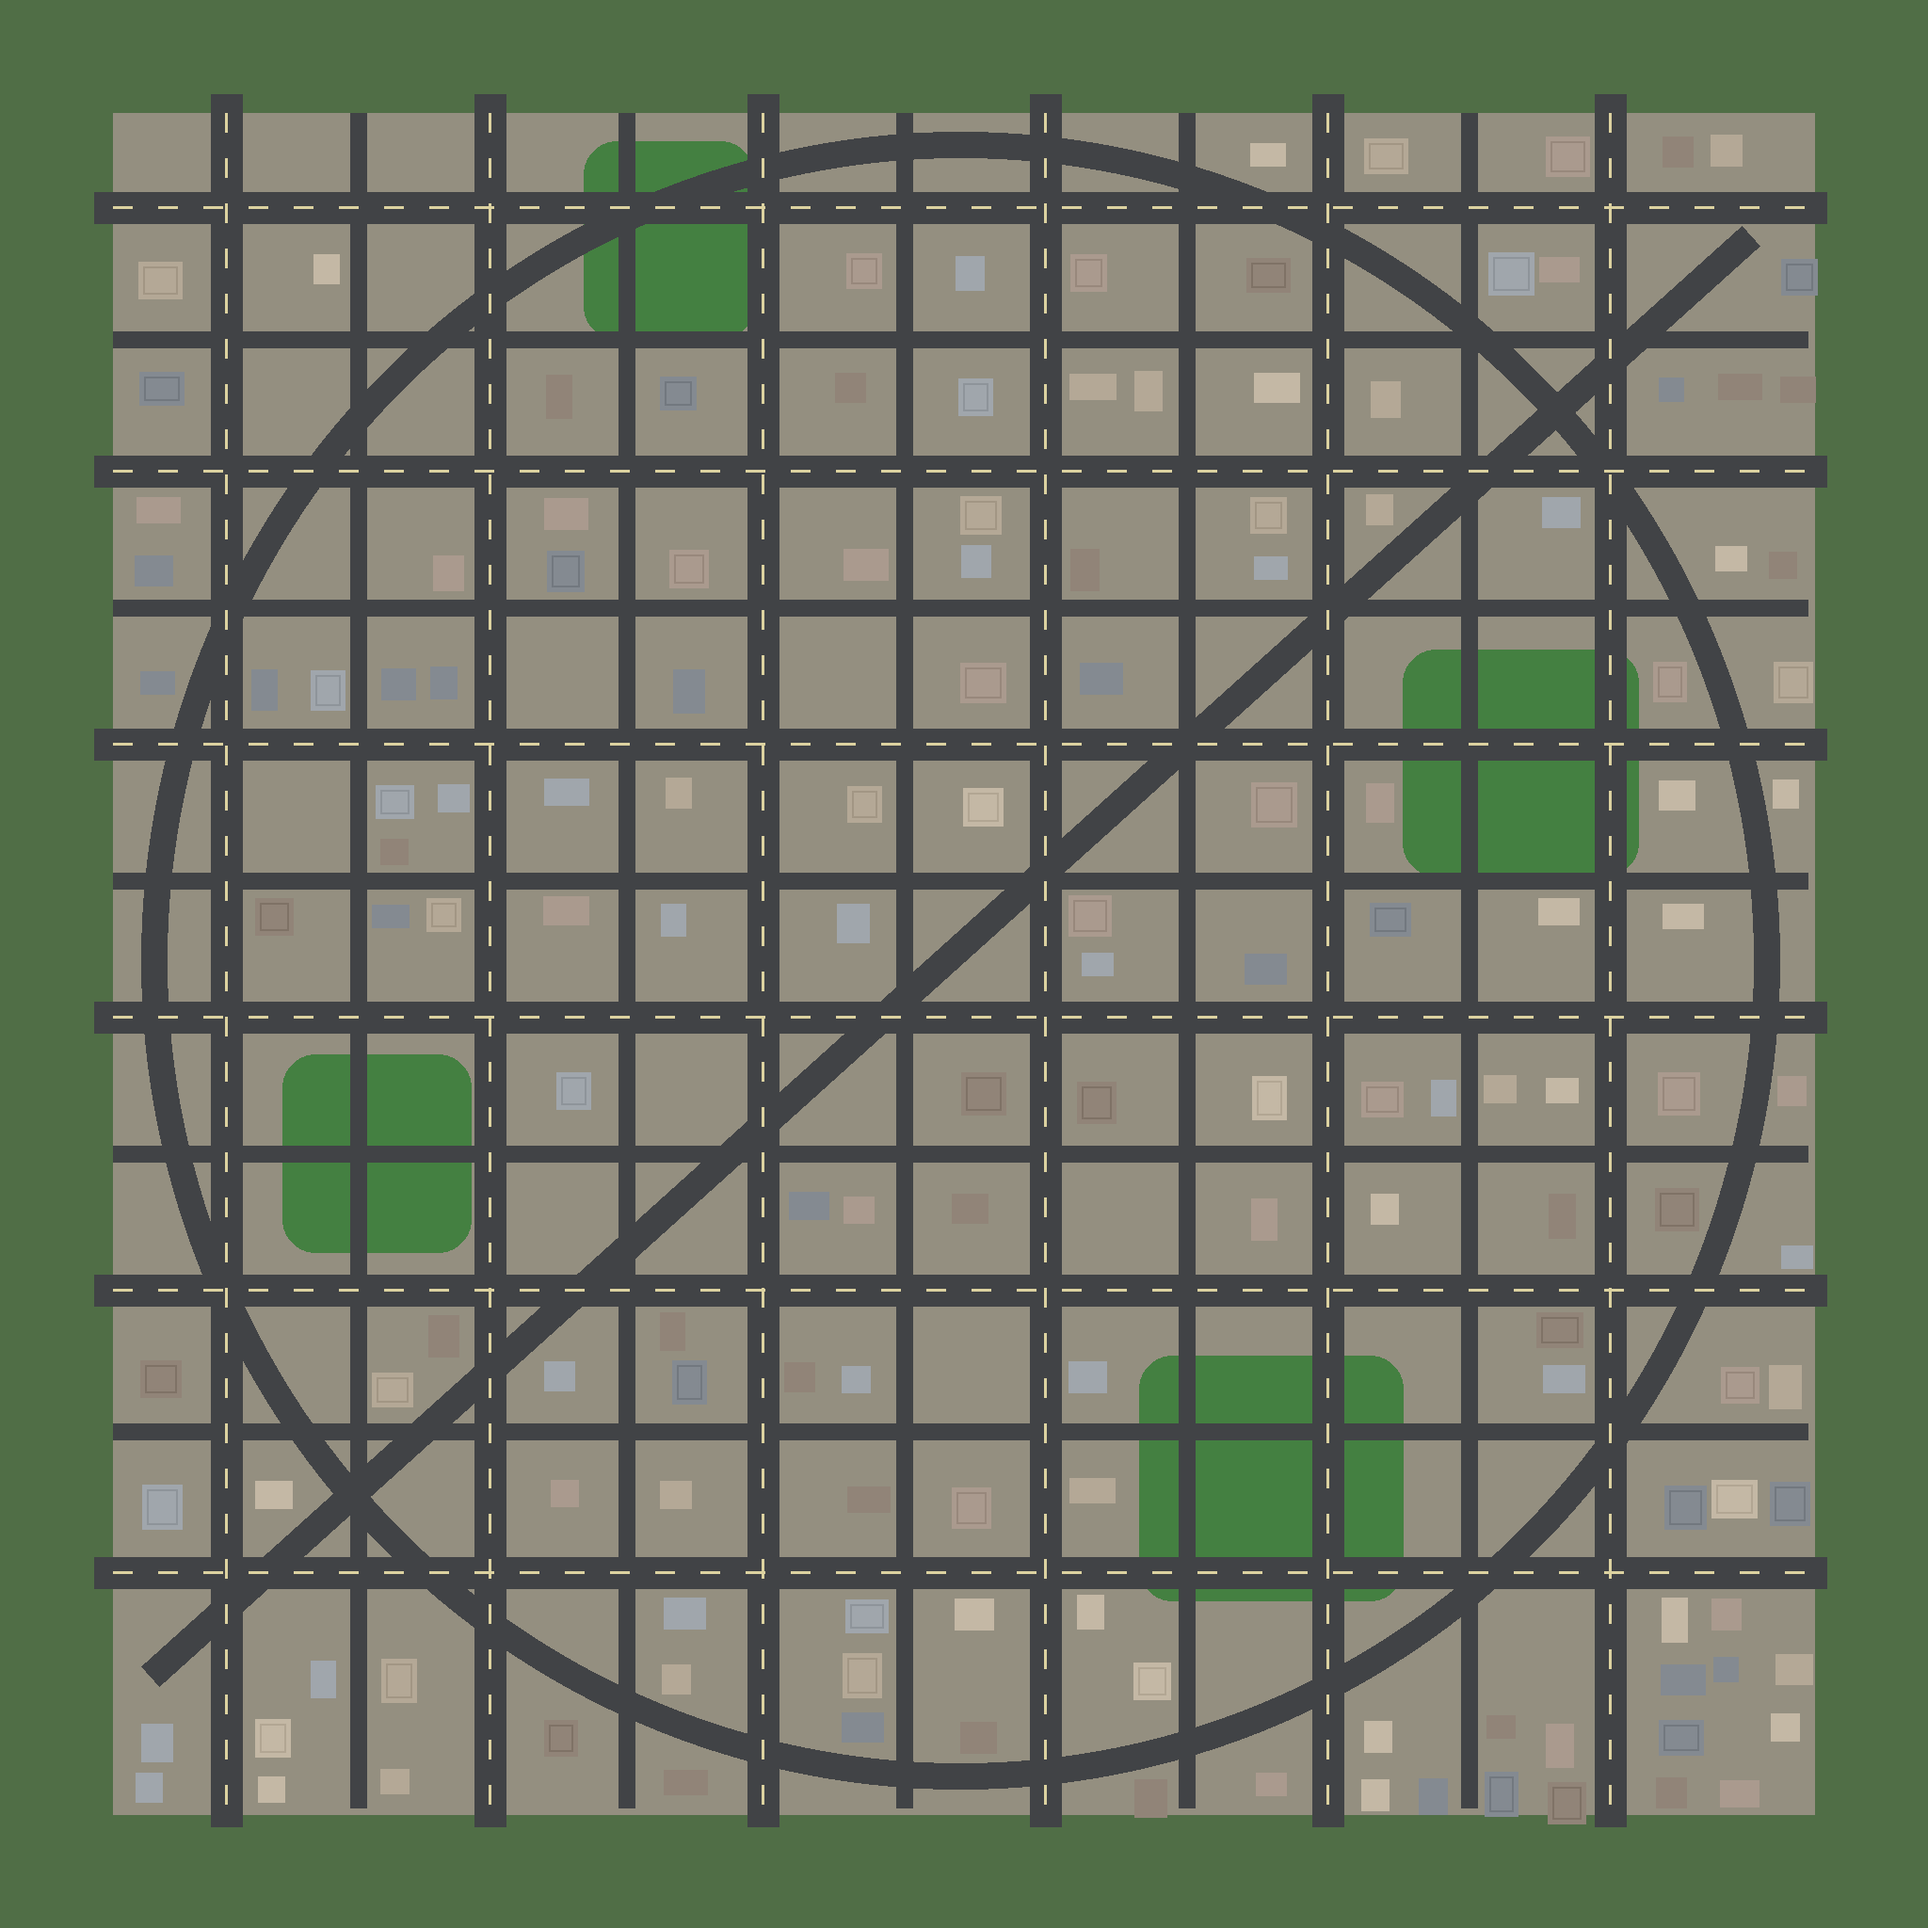
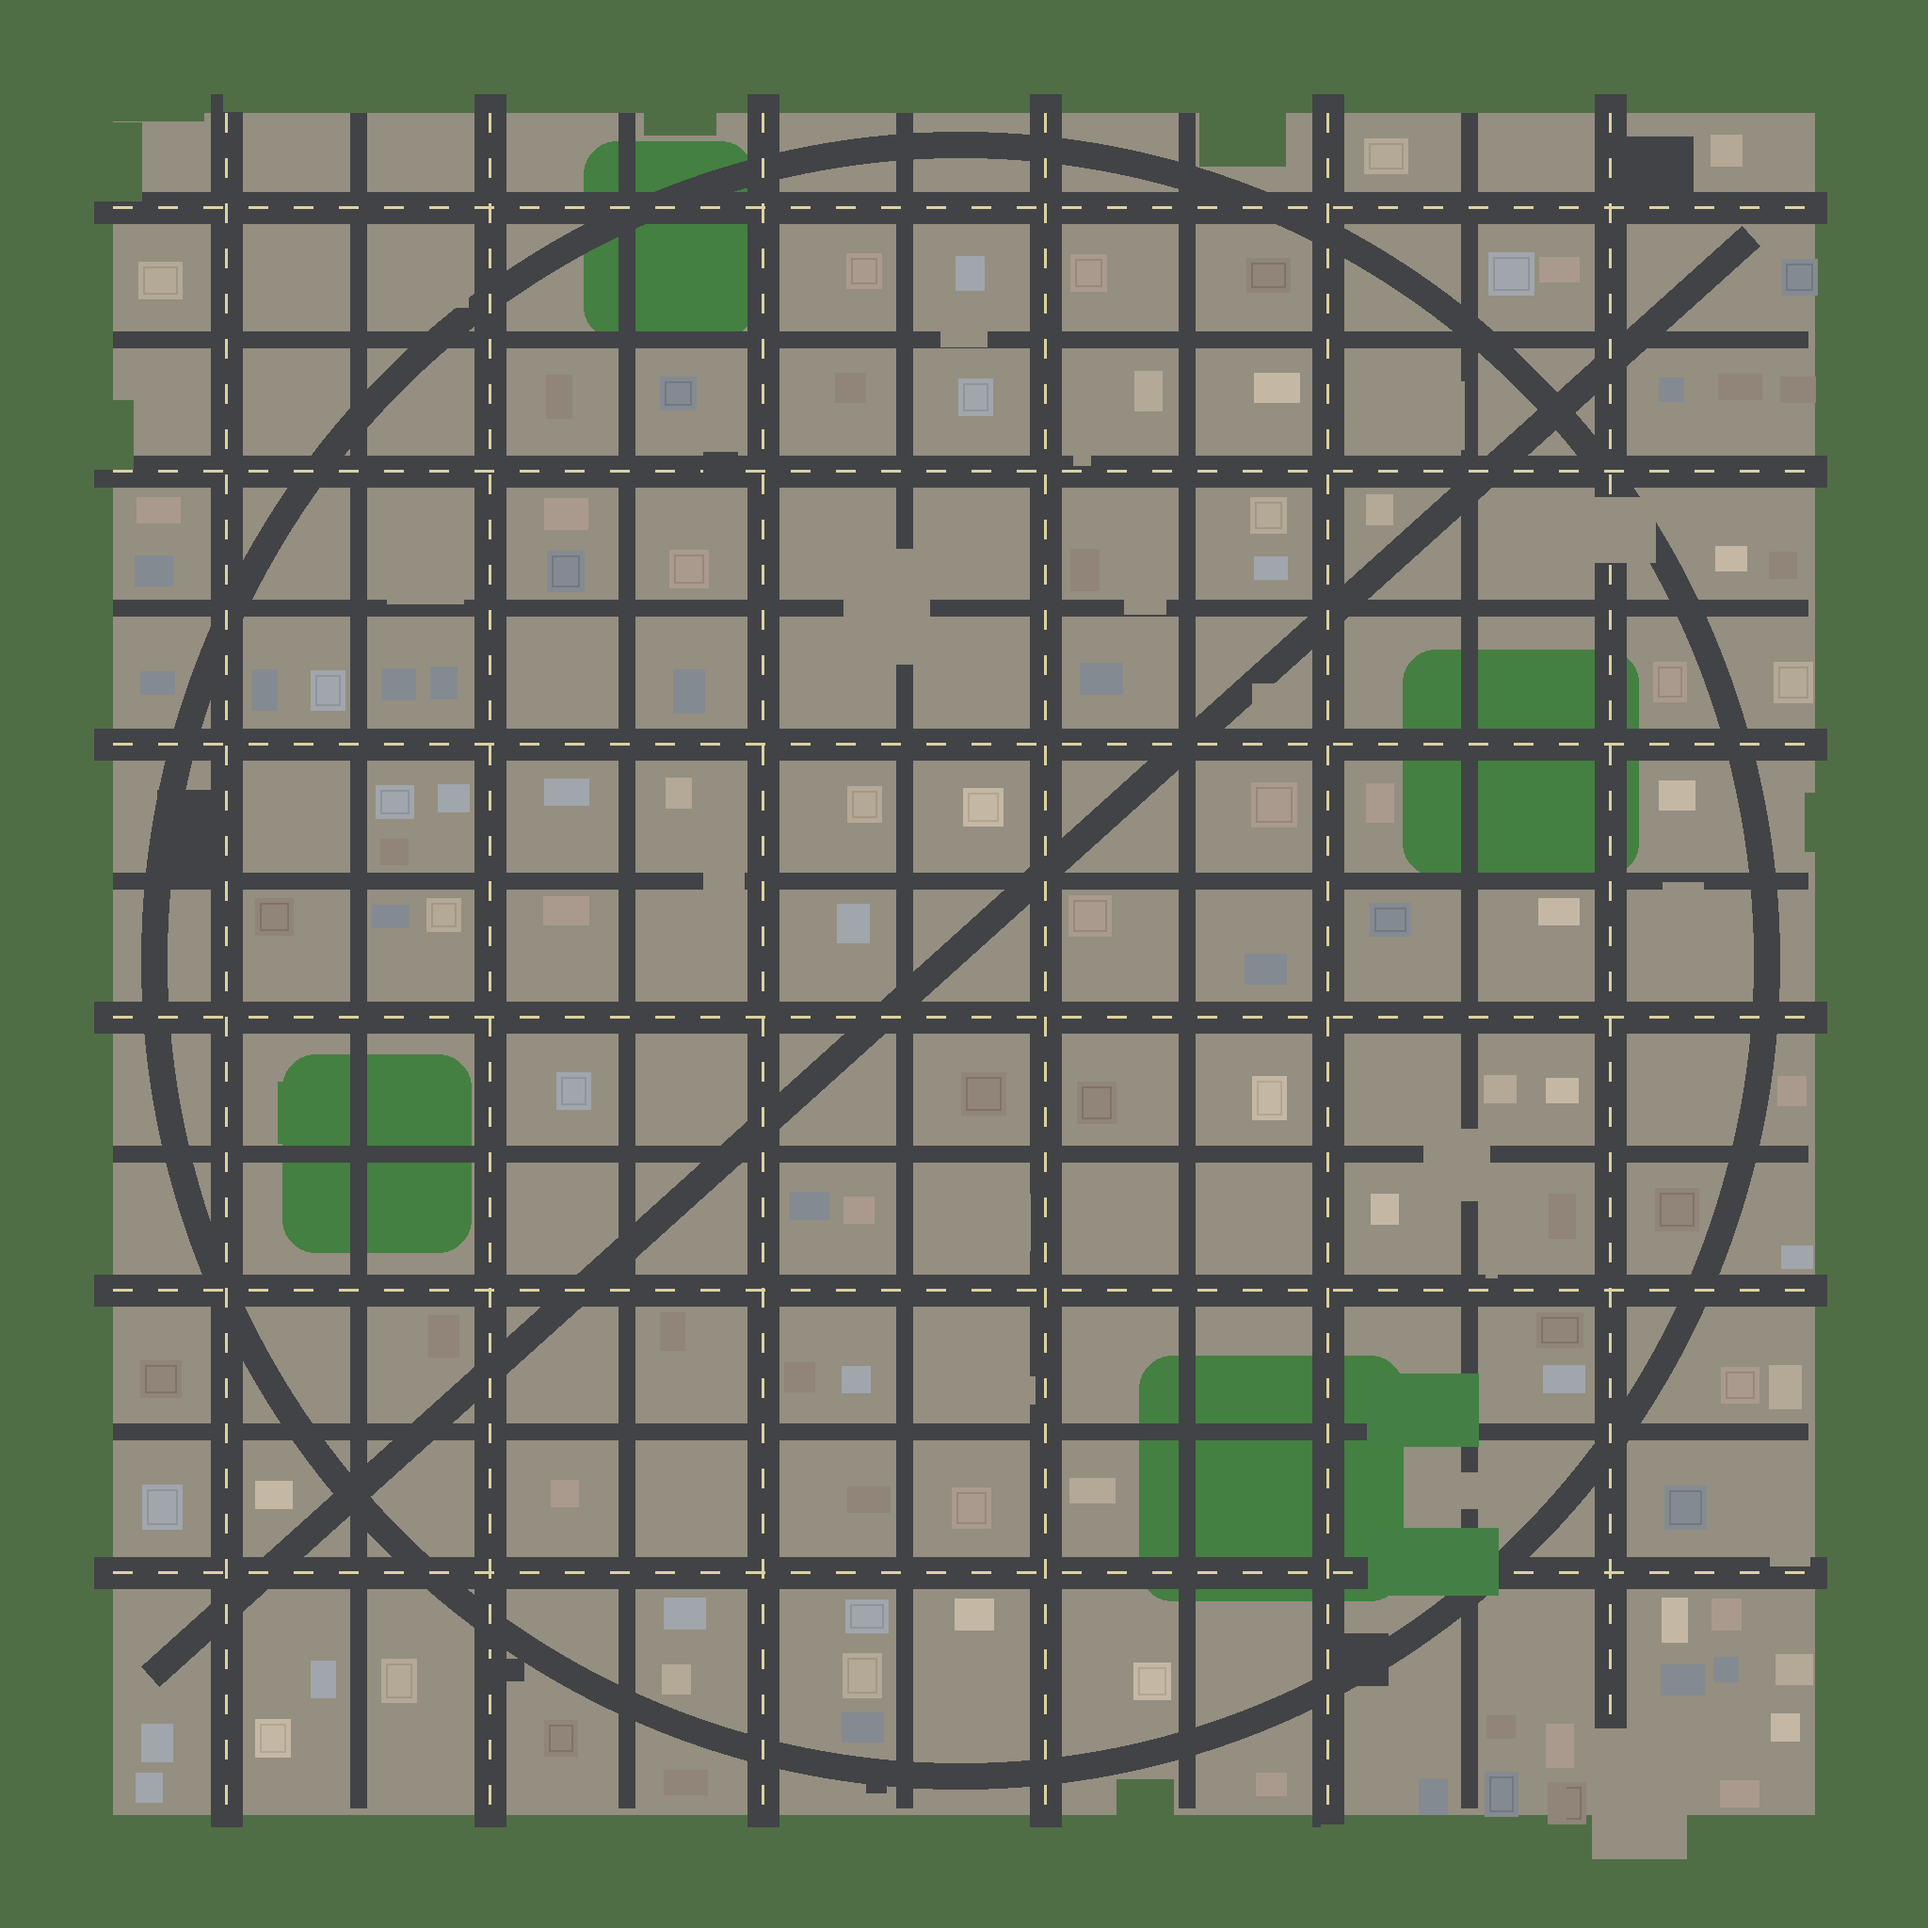
Replace heightmap building pads with polygon city data.
Flatten ch2 height/diffuse assets, load footprints from ch2.buildings, and add isometric camera (V) plus H/G height controls.

diff --git a/src/polygon_renderer.c b/src/polygon_renderer.c
@@ -187,8 +187,83 @@ static void AddBox(float x, float y, float z, float width, float depth, float he
 	PolygonRenderer_AddColliderBox(x, y, z, width, depth, height);
 }
 
+void PolygonRenderer_BuildingsPathFromHeightmap(const char *heightmap, char *out, size_t outSize) {
+	if(!out || outSize == 0) return;
+	out[0] = '\0';
+	if(!heightmap || !heightmap[0]) return;
+	SDL_strlcpy(out, heightmap, outSize);
+	char *dot = SDL_strrchr(out, '.');
+	char *slash = SDL_strrchr(out, '/');
+	char *bslash = SDL_strrchr(out, '\\');
+	char *sep = slash > bslash ? slash : bslash;
+	if(dot && (!sep || dot > sep))
+		*dot = '\0';
+	SDL_strlcat(out, ".buildings", outSize);
+}
+
+int PolygonRenderer_LoadBuildings(Map *map, const char *path) {
+	if(!map || !map->ready || !path || !path[0]) return 0;
+	SDL_RWops *rw = SDL_RWFromFile(path, "r");
+	if(!rw) {
+		SDL_LogWarn(0, "Building list not found: %s", path);
+		return 0;
+	}
+
+	int buildingCount = 0;
+	const Sint64 size = SDL_RWsize(rw);
+	if(size <= 0 || size > 1 << 20) {
+		SDL_RWclose(rw);
+		return 0;
+	}
+	char *text = SDL_malloc((size_t)size + 1);
+	if(!text) {
+		SDL_RWclose(rw);
+		return 0;
+	}
+	if(SDL_RWread(rw, text, 1, (size_t)size) != (size_t)size) {
+		SDL_free(text);
+		SDL_RWclose(rw);
+		return 0;
+	}
+	text[size] = '\0';
+	SDL_RWclose(rw);
+
+	char *cursor = text;
+	while(*cursor) {
+		char *lineStart = cursor;
+		while(*cursor && *cursor != '\n' && *cursor != '\r') cursor++;
+		const char end = *cursor;
+		*cursor = '\0';
+		if(end == '\r' && cursor[1] == '\n') cursor += 2;
+		else if(end) cursor++;
+
+		while(*lineStart == ' ' || *lineStart == '\t') lineStart++;
+		if(!*lineStart || *lineStart == '#') continue;
+
+		float x = 0, y = 0, width = 0, depth = 0, height = 0;
+		int materialId = 0;
+		if(SDL_sscanf(lineStart, "%f %f %f %f %f %d",
+			&x, &y, &width, &depth, &height, &materialId) < 5)
+			continue;
+		if(width <= 0.0f || depth <= 0.0f || height <= 0.0f) continue;
+
+		Point sample = {x + width * 0.5f, y + depth * 0.5f};
+		const float base = (float)Map_GetHeight(map, &sample);
+		const PolygonMaterial *material = materialId ?
+			&polygons.texturedMaterial : &polygons.flatMaterial;
+		AddBox(x, y, base, width, depth, height, material);
+		buildingCount++;
+	}
+
+	SDL_free(text);
+	SDL_Log("Loaded %d polygon buildings from %s", buildingCount, path);
+	map->redraw = 1;
+	return buildingCount;
+}
+
 void PolygonRenderer_Init(Map *map) {
 	polygons.triangleCount = 0;
+	polygons.colliderCount = 0;
 #ifdef USE_AVX2
 	polygons.useAVX2 = SDL_HasAVX2();
 #endif
@@ -197,19 +272,10 @@ void PolygonRenderer_Init(Map *map) {
 	polygons.flatMaterial = (PolygonMaterial){POLYGON_MATERIAL_FLAT, 0xff4080d0u, NULL, 0, 0, 0};
 	polygons.texturedMaterial = (PolygonMaterial){POLYGON_MATERIAL_TEXTURED, 0xffffffffu,
 		polygons.checker, 8, 8, 0};
-	for(int index = 0; index < 10; index++) {
-		const int column = index % 2;
-		const int row = index / 2;
-		Point flat = {410.0f + (float)column * 125.0f, 650.0f - (float)row * 65.0f};
-		Point textured = {flat.x + 45.0f, flat.y};
-		const float flatGround = (float)Map_GetHeight(map, &flat);
-		const float texturedGround = (float)Map_GetHeight(map, &textured);
-		AddBox(flat.x, flat.y, flatGround, 36.0f, 36.0f, 45.0f, &polygons.flatMaterial);
-		AddBox(textured.x, textured.y, texturedGround, 36.0f, 36.0f, 45.0f,
-			&polygons.texturedMaterial);
-	}
 #ifdef USE_THREADED_RENDER
 	InitPolygonWorkers(map);
+#else
+	(void)map;
 #endif
 }
 

diff --git a/src/input.c b/src/input.c
@@ -9,9 +9,58 @@
 
 static int isOnTheGround = 0;
 static float velocity = 0.0f;
+static int isIsometric = 0;
+static float isoHeightOffset = CAMERA_ISO_HEIGHT;
+static struct {
+	float angle, horizon, height;
+} isoSaved;
+
+static void ToggleIsometricCamera(void);
 
 #include "input/kbmouse.c"
 #include "input/gamepad.c"
+
+static void ApplyIsometricCamera(Camera *cam, Map *map) {
+	const float terrainHeight = (float)Map_GetHeight(map, &cam->position);
+	const float polygonHeight = PolygonRenderer_GetSupportHeight(
+		cam->position.x, cam->position.y
+	);
+	const float support = max(terrainHeight, polygonHeight);
+	const float center = cam->maxhorizon * 0.5f;
+	const float extent =
+		(cam->maxhorizon / CAMERA_PROJECTION_SCALE) * SDL_tanf(CAMERA_MAX_PITCH);
+
+	/* Keep yaw free for mouse orbit; lock pitch and altitude. */
+	cam->horizon = center - extent * CAMERA_ISO_LOOK_DOWN;
+	cam->height = support + isoHeightOffset;
+	Camera_ClampPitch(cam);
+	velocity = 0.0f;
+	isOnTheGround = 1;
+}
+
+static void ToggleIsometricCamera(void) {
+	Map *map = NULL;
+	Camera *cam = NULL;
+	Engine_GetObjects(&cam, &map);
+	if(!isIsometric) {
+		isoSaved.angle = cam->angle;
+		isoSaved.horizon = cam->horizon;
+		isoSaved.height = cam->height;
+		isIsometric = 1;
+		isoHeightOffset = CAMERA_ISO_HEIGHT;
+		cam->angle = CAMERA_ISO_ANGLE;
+		ApplyIsometricCamera(cam, map);
+		SDL_Log("Isometric camera: on");
+	} else {
+		cam->angle = isoSaved.angle;
+		cam->horizon = isoSaved.horizon;
+		cam->height = isoSaved.height;
+		Camera_ClampPitch(cam);
+		isIsometric = 0;
+		SDL_Log("Isometric camera: off");
+	}
+	map->redraw = 1;
+}
 
 void Input_Start(void *ptr) {
 	(void)ptr;
@@ -22,6 +71,7 @@ void Input_Start(void *ptr) {
 	Camera_ResetPitch(cam);
 	isOnTheGround = 1;
 	velocity = 0.0f;
+	isIsometric = 0;
 	SetMouseGrab(1);
 	map->redraw = 1;
 }
@@ -71,6 +121,10 @@ void Input_Update(void *ptr) {
 		&cam->position.x, &cam->position.y,
 		feetZ, cam->height, INPUT_COLLISION_RADIUS
 	);
+	if(isIsometric) {
+		ApplyIsometricCamera(cam, map);
+		map->redraw = 1;
+	}
 	// Reset camera angle after a full turn
 	if(SDL_fabsf(cam->angle) > M_PI * 2) cam->angle = 0;
 }

diff --git a/src/input/kbmouse.c b/src/input/kbmouse.c
@@ -34,6 +34,10 @@ static void ProcessKeyDown(SDL_Scancode code, Uint16 mod) {
 		case SDL_SCANCODE_F:
 			input[3] = code;
 			break;
+		case SDL_SCANCODE_H:
+		case SDL_SCANCODE_G:
+			input[2] = code;
+			break;
 		case SDL_SCANCODE_SPACE:
 			map->redraw = 1;
 			if(mod & KMOD_CTRL) {
@@ -65,6 +69,9 @@ static void ProcessKeyDown(SDL_Scancode code, Uint16 mod) {
 			break;
 		case SDL_SCANCODE_I:
 			Engine_CycleIntegerScale();
+			break;
+		case SDL_SCANCODE_V:
+			ToggleIsometricCamera();
 			break;
 		case SDL_SCANCODE_F10:
 			Engine_ToggleRenderer();
@@ -99,6 +106,10 @@ static void ProcessKeyUp(SDL_Scancode code) {
 		case SDL_SCANCODE_F:
 			if(input[3] == code) input[3] = 0;
 			break;
+		case SDL_SCANCODE_H:
+		case SDL_SCANCODE_G:
+			if(input[2] == code) input[2] = 0;
+			break;
 		case SDL_SCANCODE_LSHIFT:
 			isSprintActive = 0;
 			break;
@@ -107,7 +118,7 @@ static void ProcessKeyUp(SDL_Scancode code) {
 }
 
 static int ProcessKeyboard(Camera *cam, float dm) {
-	if(input[3])
+	if(input[3] && !isIsometric)
 		Camera_Pitch(cam, (input[3] == SDL_SCANCODE_R ? -dm : dm));
 	const float speed = (dm / INPUT_WALK_SPEED_DIVISOR) *
 		(isSprintActive ? INPUT_SPRINT_MULTIPLIER : 1.0f);
@@ -118,6 +129,19 @@ static int ProcessKeyboard(Camera *cam, float dm) {
 	if(input[0]) {
 		const float direction = input[0] == SDL_SCANCODE_W ? -speed : speed;
 		Camera_MoveForward(cam, direction, 1);
+	}
+	if(input[2]) {
+		const float direction = input[2] == SDL_SCANCODE_H ? speed : -speed;
+		if(isIsometric) {
+			isoHeightOffset = max(
+				CAMERA_EYE_HEIGHT,
+				min(isoHeightOffset + direction * CAMERA_MOVE_STEP, CAMERA_HEIGHT_MAX)
+			);
+		} else {
+			Camera_StrafeVert(cam, direction);
+			if(direction > 0.0f)
+				isOnTheGround = 0;
+		}
 	}
 
 	/*
@@ -134,6 +158,11 @@ static void ProcessMouseMotion(Sint32 rx, Sint32 ry) {
 	Map *map = NULL;
 	Camera *cam = NULL;
 	Engine_GetObjects(&cam, &map);
+	if(isIsometric) {
+		cam->angle -= (float)rx * INPUT_MOUSE_SENS;
+		map->redraw = 1;
+		return;
+	}
 	cam->angle -= (float)rx * INPUT_MOUSE_SENS;
 	cam->horizon -= (float)ry * cam->maxhorizon * INPUT_MOUSE_SENS;
 	Camera_ClampPitch(cam);

diff --git a/src/modules/dragndrop.c b/src/modules/dragndrop.c
@@ -6,6 +6,7 @@
 #define VSERROR_STRINGS
 #include "../error.h"
 #include "../map.h"
+#include "../polygon_renderer.h"
 
 char *droppedFile = NULL, droppedFileType = 0;
 
@@ -47,6 +48,15 @@ void DND_Event(void *ptr) {
 				Errors ret;
 				if((ret = Map_Open(map, diffuse, height)) != ERROR_OK)
 					SDL_LogError(0, "Failed to load map: %s", Errors_Strings[ret]);
+				else {
+					char buildingsPath[512];
+					PolygonRenderer_Clear();
+					PolygonRenderer_BuildingsPathFromHeightmap(
+						height, buildingsPath, sizeof(buildingsPath));
+					PolygonRenderer_LoadBuildings(map, buildingsPath);
+					cam->height = (float)Map_GetHeight(map, &cam->position) + CAMERA_EYE_HEIGHT;
+					map->redraw = 1;
+				}
 
 				SDL_free(ev->drop.file);
 				SDL_free(droppedFile);

diff --git a/src/polygon_renderer.h b/src/polygon_renderer.h
@@ -1,6 +1,7 @@
 #ifndef VSPOLYGONRENDERER_H
 #define VSPOLYGONRENDERER_H
 
+#include <stddef.h>
 #include "engine.h"
 
 typedef enum ePolygonMaterialType {
@@ -27,6 +28,10 @@ typedef struct sPolygonTriangle {
 } PolygonTriangle;
 
 void PolygonRenderer_Init(Map *map);
+/* Load axis-aligned buildings from a text file (x y width depth height material). */
+int PolygonRenderer_LoadBuildings(Map *map, const char *path);
+/* Derive "maps/foo.buildings" from a heightmap path like "maps/foo.png". */
+void PolygonRenderer_BuildingsPathFromHeightmap(const char *heightmap, char *out, size_t outSize);
 void PolygonRenderer_Destroy(void);
 void PolygonRenderer_Clear(void);
 int PolygonRenderer_AddTriangle(const PolygonTriangle *triangle);

diff --git a/src/engine.c b/src/engine.c
@@ -360,6 +360,12 @@ int Engine_Start(EngineSettings *es) {
 			es->ceilingheightmap ? es->ceilingheightmap : es->heightmap
 		);
 	PolygonRenderer_Init(&ctx.map);
+	if(es->heightmap) {
+		char buildingsPath[512];
+		PolygonRenderer_BuildingsPathFromHeightmap(
+			es->heightmap, buildingsPath, sizeof(buildingsPath));
+		PolygonRenderer_LoadBuildings(&ctx.map, buildingsPath);
+	}
 	if(es->spritePath)
 		SpriteRenderer_AddAPNG(es->spritePath, es->spriteX, es->spriteY, es->spriteZ,
 			es->spriteWidth, es->spriteHeight);

diff --git a/src/defines.h b/src/defines.h
@@ -59,4 +59,7 @@
 #define CAMERA_ZSTEP_MIN 0.001f // Minimum Z-axis step
 #define CAMERA_ZSTEP_MAX 0.16f // Above this value, the image becomes a pixel mess
 #define CAMERA_ZSTEP_MOD 0.001f // This define name sounds intimidating
+#define CAMERA_ISO_ANGLE 0.78539816339f // Isometric yaw: 45 degrees
+#define CAMERA_ISO_HEIGHT 280.0f // Eye height above support while isometric
+#define CAMERA_ISO_LOOK_DOWN 0.92f // Fraction of max pitch looking down (0..1)
 #endif
